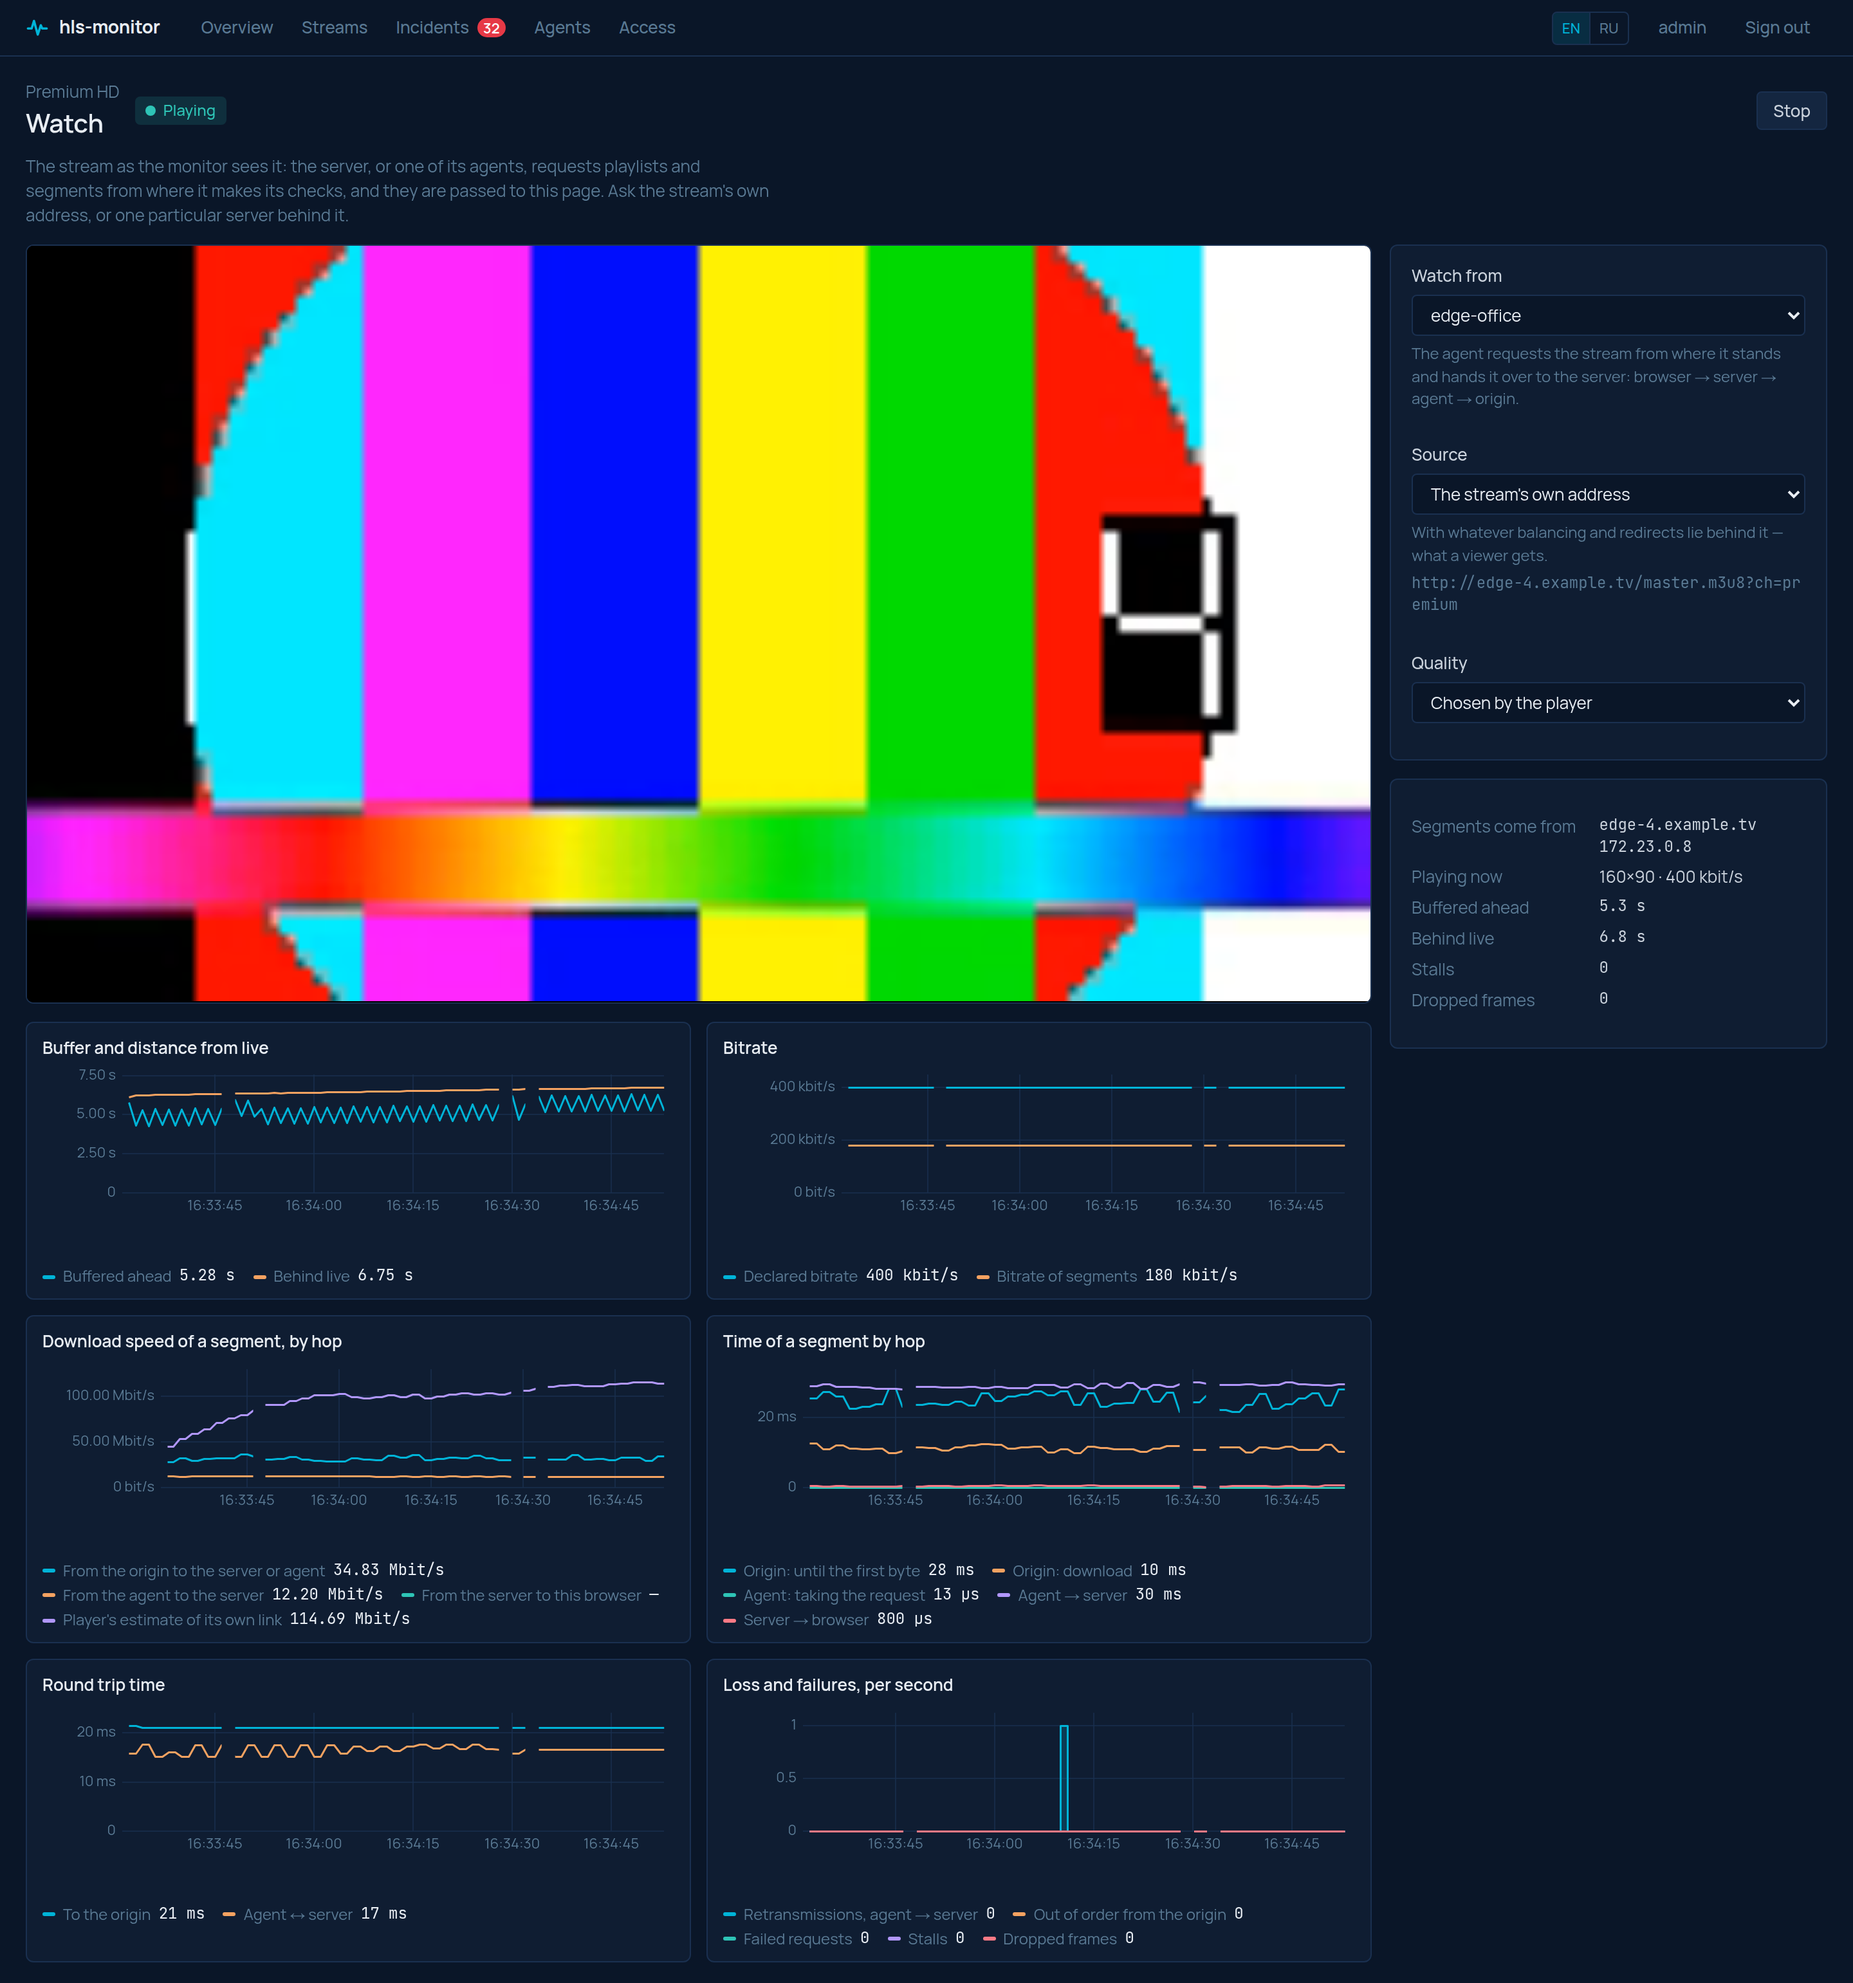
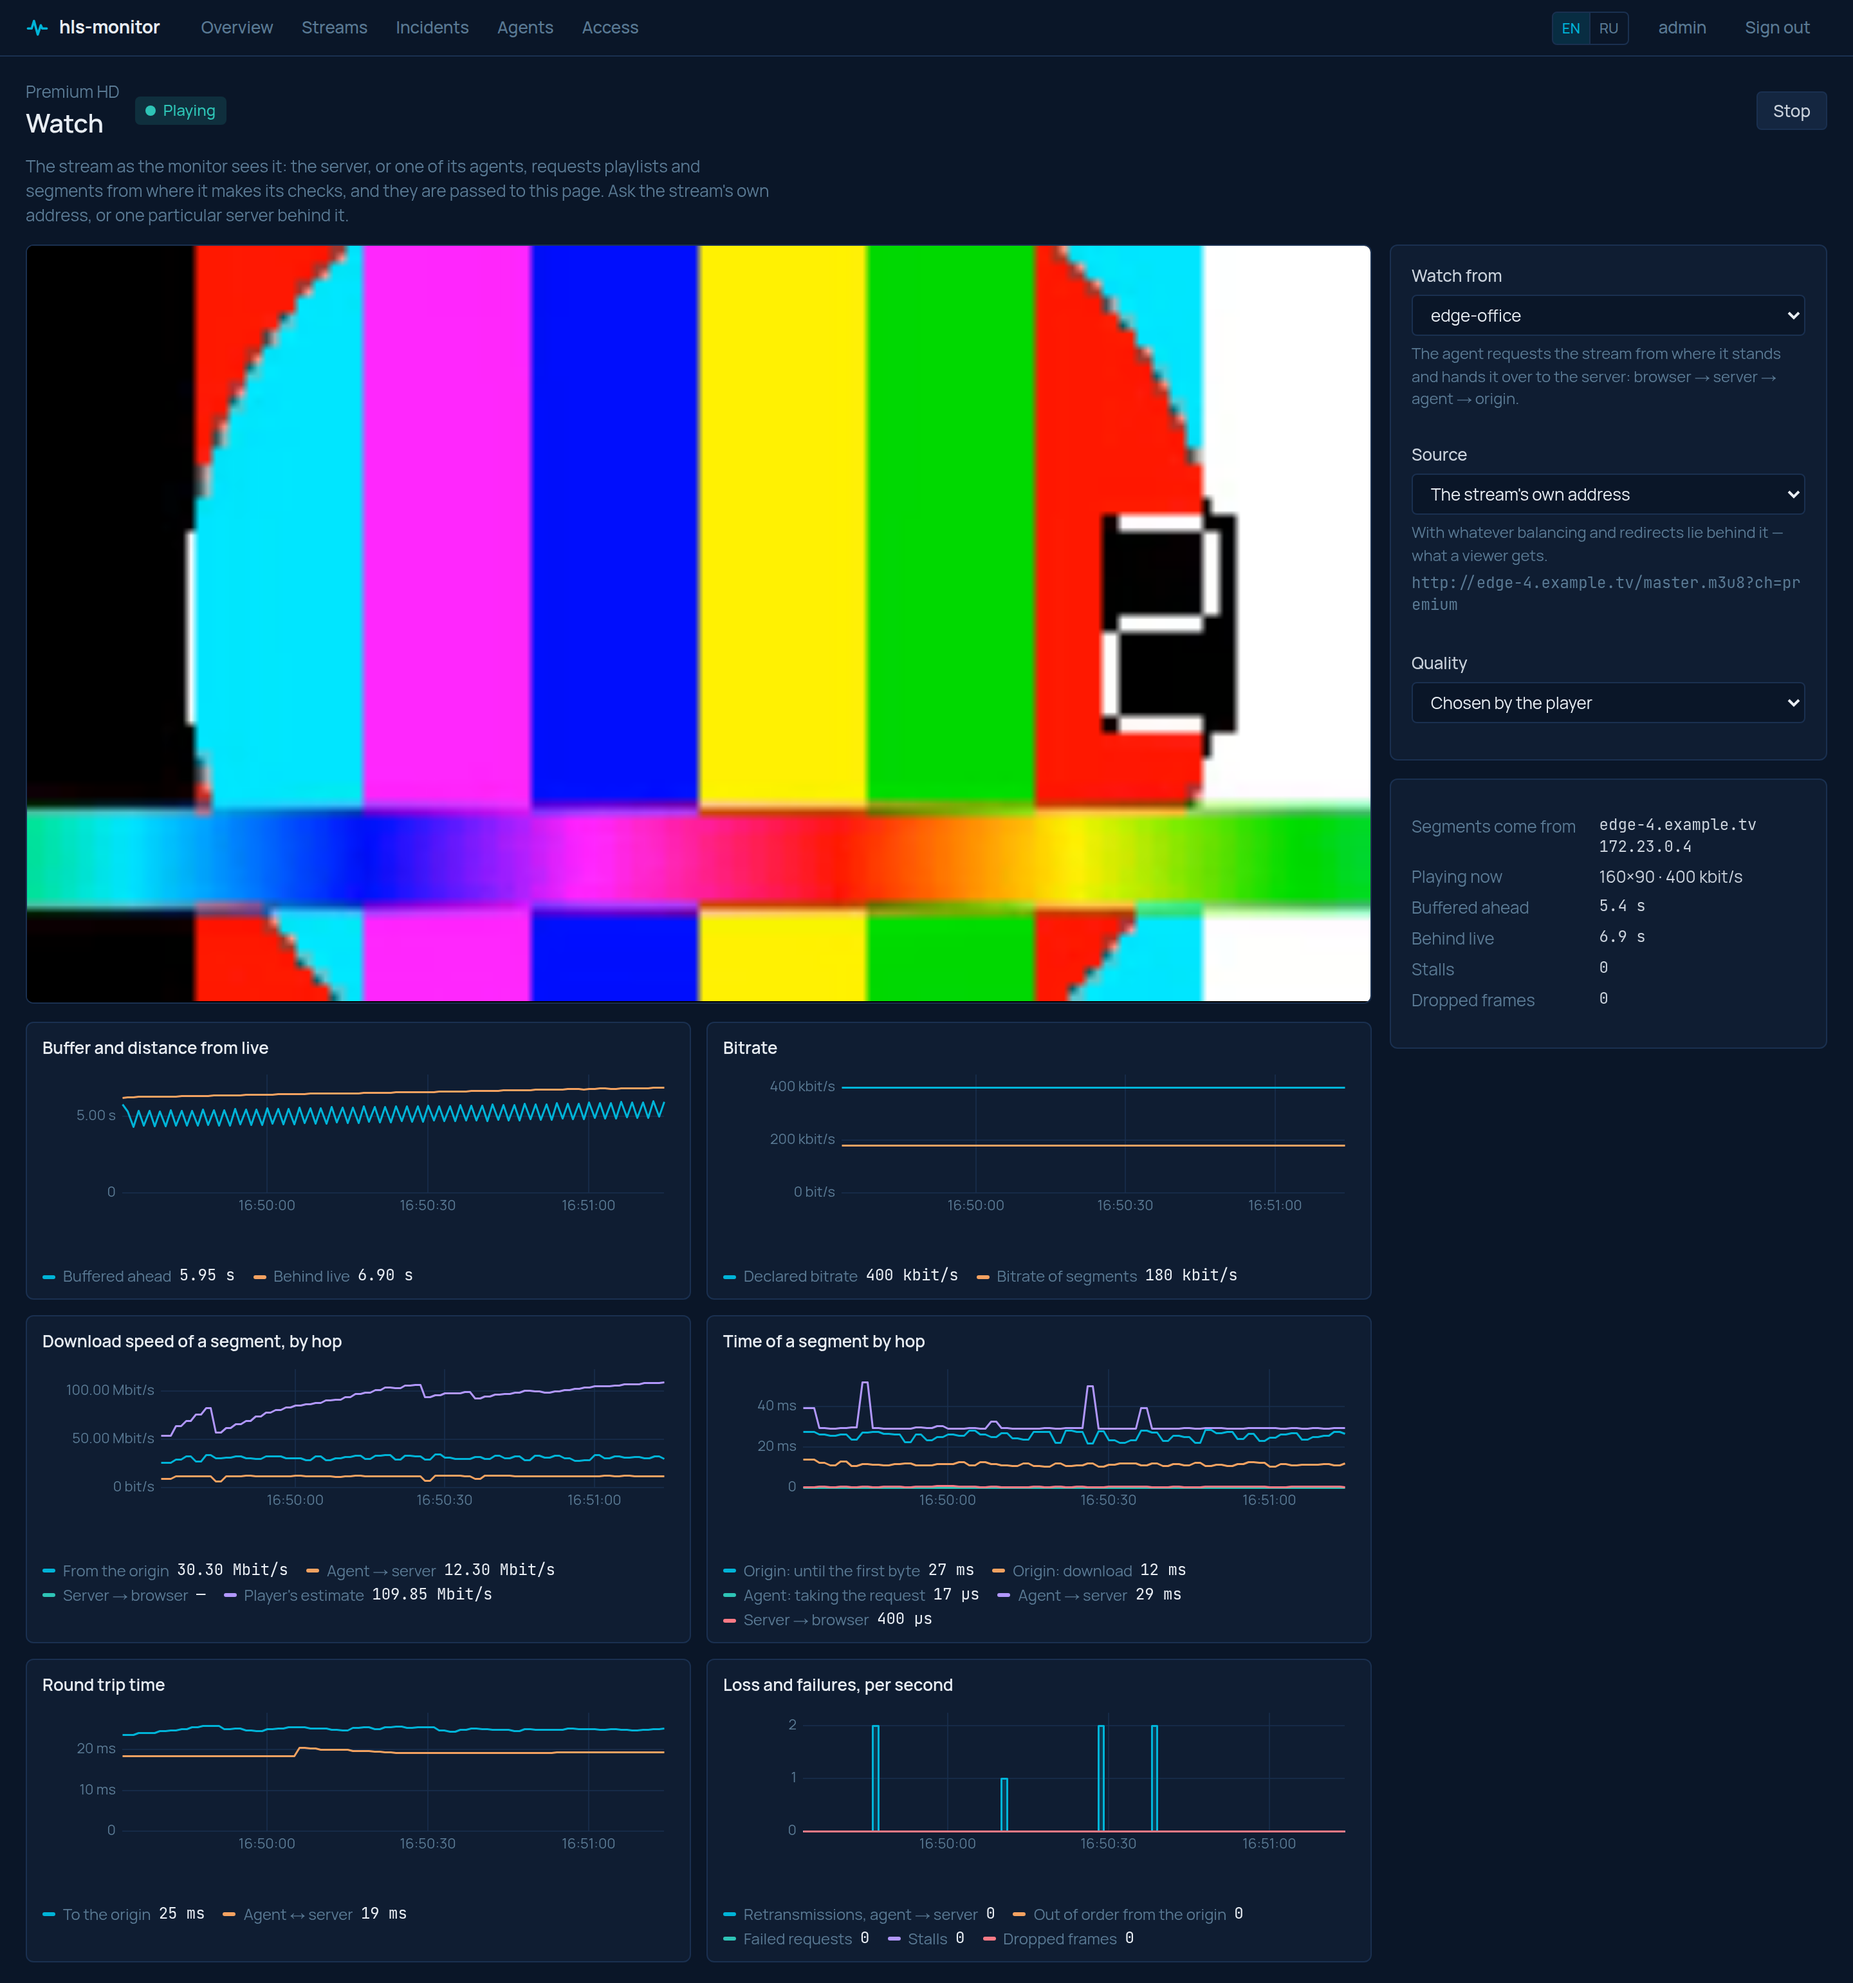
Leave no holes in the charts of a watched stream
The page sampled on a timer that does not fire on the second, so now
and then a second was stepped over and the lines broke. A sample is now
written for every second that has passed.

The agent's round trip time to the server is the smallest of its last
half a minute rather than the kernel's minimum, which holds for five
minutes and hid a link that had just got worse. The legend of the speed
chart is shorter, so that all of it fits.

diff --git a/web/src/views/WatchView.vue b/web/src/views/WatchView.vue
@@ -22,7 +22,6 @@ const video = ref<HTMLVideoElement | null>(null)
 let hls: Hls | null = null
 /** New addresses were asked for after the old ones were refused. */
 let renewed = false
-let lastSample = 0
 let timer = 0
 
 interface Quality {
@@ -77,21 +76,35 @@ function resetHistory() {
   counted = {}
   totals = {}
   startedAt.value = Math.floor(Date.now() / 1000)
+  sampledSecond = 0
   sampled.value++
 }
 
+/** The last second a sample was written for. */
+let sampledSecond = 0
+
+// Called a few times a second; writes one sample for every second that has
+// passed. A timer does not fire on the second: without filling in, the
+// seconds it steps over are holes in the lines. A long silence — the tab
+// was asleep — stays a hole: nothing was observed then.
 function sample() {
   const now = Math.floor(Date.now() / 1000)
-  const put = (key: string, v: number | undefined) => {
-    if (v === undefined || !Number.isFinite(v)) return
-    const s = (series[key] ??= [])
-    s.push([now, v])
-    while (s.length && s[0]![0] < now - windowSec) s.shift()
+  if (now <= sampledSecond) return
+  const from = now - sampledSecond > 5 ? now : sampledSecond + 1
+  for (let sec = from; sec <= now; sec++) {
+    const put = (key: string, v: number | undefined) => {
+      if (v === undefined || !Number.isFinite(v)) return
+      const s = (series[key] ??= [])
+      s.push([sec, v])
+      while (s.length && s[0]![0] < sec - windowSec) s.shift()
+    }
+    for (const [k, v] of Object.entries(latest)) put(k, v)
+    // Counts are per second; a second in which nothing went wrong is a
+    // zero, and what was counted belongs to the latest one.
+    for (const k of ['retransmits', 'outOfOrder', 'failed', 'stalls', 'dropped']) put(k, sec === now ? (counted[k] ?? 0) : 0)
   }
-  for (const [k, v] of Object.entries(latest)) put(k, v)
-  // Counts are per second; a second in which nothing went wrong is a zero.
-  for (const k of ['retransmits', 'outOfOrder', 'failed', 'stalls', 'dropped']) put(k, counted[k] ?? 0)
   counted = {}
+  sampledSecond = now
   sampled.value++
 }
 
@@ -429,10 +442,7 @@ async function start() {
     if (Number.isFinite(hls.bandwidthEstimate) && hls.bandwidthEstimate > 0) latest.estimate = hls.bandwidthEstimate
     if (totals.frames !== undefined && dropped.value >= totals.frames) counted.dropped = (counted.dropped ?? 0) + (dropped.value - totals.frames)
     totals.frames = dropped.value
-    if (Date.now() - lastSample >= 1000) {
-      lastSample = Date.now()
-      sample()
-    }
+    sample()
     if (state.value !== 'failed') {
       state.value = el.readyState >= 3 && !el.paused ? 'playing' : el.readyState < 3 && el.currentTime > 0 ? 'stalled' : state.value === 'playing' ? 'stalled' : 'loading'
       if (el.paused && el.readyState >= 3) state.value = 'playing'

diff --git a/internal/agent/link.go b/internal/agent/link.go
@@ -19,13 +19,41 @@ type linkWatch struct {
 	// seen is, per connection, the retransmissions already counted: the
 	// kernel counts them for the life of a connection, and one connection
 	// serves many requests.
-	seen        map[string]uint32
+	seen map[string]uint32
+	// rtts are the round trip times read in the last rttWindow. Most of
+	// the agent's requests wait long for their answer, and on those the
+	// kernel's figure includes the time the server put off acknowledging
+	// the request; the smallest of the recent ones does not.
+	rtts        []rttSample
 	rtt         time.Duration
 	retransmits int64
 	lastRequest time.Duration
 	requests    int64
 	failures    int64
 	measured    bool
+}
+
+type rttSample struct {
+	at  time.Time
+	rtt time.Duration
+}
+
+const rttWindow = 30 * time.Second
+
+// noteRTT adds a reading and returns the smallest of the recent ones.
+func (l *linkWatch) noteRTT(now time.Time, rtt time.Duration) time.Duration {
+	keep := l.rtts[:0]
+	for _, s := range l.rtts {
+		if now.Sub(s.at) <= rttWindow {
+			keep = append(keep, s)
+		}
+	}
+	l.rtts = append(keep, rttSample{now, rtt})
+	least := rtt
+	for _, s := range l.rtts {
+		least = min(least, s.rtt)
+	}
+	return least
 }
 
 // watch prepares a request to the server to be measured. The request it
@@ -60,7 +88,7 @@ func (l *linkWatch) watch(req *http.Request, timed bool) (*http.Request, func(ok
 		if !have {
 			return
 		}
-		l.measured, l.rtt = true, info.RTT
+		l.measured, l.rtt = true, l.noteRTT(time.Now(), info.RTT)
 		if l.seen == nil {
 			l.seen = map[string]uint32{}
 		}

diff --git a/internal/agent/link_test.go b/internal/agent/link_test.go
@@ -1,0 +1,25 @@
+package agent
+
+import (
+	"testing"
+	"time"
+)
+
+// The round trip time reported is the smallest of the last half a minute.
+func TestLinkRTTIsTheSmallestOfRecent(t *testing.T) {
+	var l linkWatch
+	t0 := time.Now()
+	if got := l.noteRTT(t0, 40*time.Millisecond); got != 40*time.Millisecond {
+		t.Errorf("first reading: %v", got)
+	}
+	if got := l.noteRTT(t0.Add(time.Second), 2*time.Millisecond); got != 2*time.Millisecond {
+		t.Errorf("a smaller one: %v", got)
+	}
+	if got := l.noteRTT(t0.Add(2*time.Second), 45*time.Millisecond); got != 2*time.Millisecond {
+		t.Errorf("delayed acknowledgement must not show: %v", got)
+	}
+	// The way got slower: seen once the old readings are out of the window.
+	if got := l.noteRTT(t0.Add(40*time.Second), 20*time.Millisecond); got != 20*time.Millisecond {
+		t.Errorf("after the window: %v", got)
+	}
+}

diff --git a/internal/httpx/tcpinfo_linux.go b/internal/httpx/tcpinfo_linux.go
@@ -21,15 +21,8 @@ func tcpInfo(conn *net.TCPConn) (TCPInfo, bool) {
 	}); err != nil || gerr != nil || info == nil {
 		return TCPInfo{}, false
 	}
-	// The smoothed time includes how long the other side put off its
-	// acknowledgement, tens of milliseconds on a connection that waits for
-	// an answer; the smallest of the last minutes does not.
-	rtt := info.Rtt
-	if info.Min_rtt > 0 && info.Min_rtt < rtt {
-		rtt = info.Min_rtt
-	}
 	return TCPInfo{
-		RTT:         time.Duration(rtt) * time.Microsecond,
+		RTT:         time.Duration(info.Rtt) * time.Microsecond,
 		RTTVar:      time.Duration(info.Rttvar) * time.Microsecond,
 		Retransmits: info.Total_retrans,
 		OutOfOrder:  info.Rcv_ooopack,

diff --git a/internal/httpx/tcpinfo.go b/internal/httpx/tcpinfo.go
@@ -10,9 +10,9 @@ import (
 // TCPInfo is what the kernel knows about a connection. The counters run
 // for the life of the connection, which may serve many requests.
 type TCPInfo struct {
-	// RTT is the round trip time: the smallest the kernel saw in the last
-	// minutes, which leaves out acknowledgements the other side delayed.
-	// RTTVar is how much the smoothed time varies.
+	// RTT is the smoothed round trip time, RTTVar how much it varies. On a
+	// connection that waits long for its answer it includes the time the
+	// other side put off its acknowledgement.
 	RTT    time.Duration
 	RTTVar time.Duration
 	// Retransmits counts the segments this side had to send again: the
